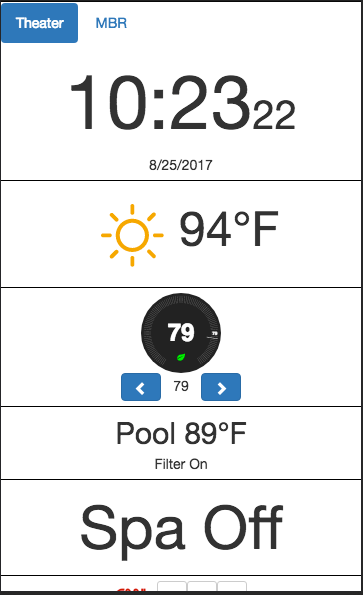
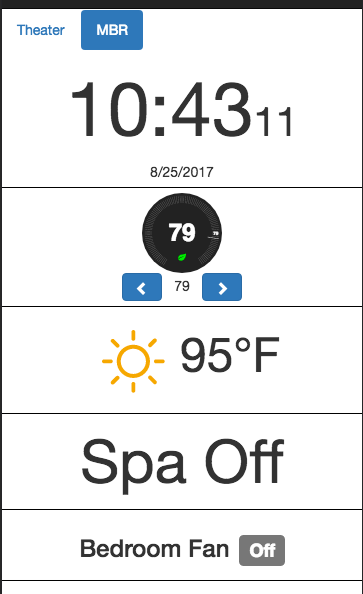
more README

diff --git a/README.md b/README.md
@@ -42,6 +42,15 @@ you care about at a glance.
 
 ![Dashboard iPad](https://raw.githubusercontent.com/RoboDomo/RoboDomo/master/screenshots/Dashboard-iPad.png)
 
+You might have a phone on your nightstand or on the wall in the bedroom.  The dashboard
+for its screen would have different tiles with information/controls more suited
+to the bedroom location.
+
+![Dashboard iPad](https://raw.githubusercontent.com/RoboDomo/RoboDomo/master/screenshots/Dashboard-Phon.png)
+
+More screenshots here:
+https://github.com/RoboDomo/RoboDomo/tree/master/screenshots
+
 ## AutoDomo in action (use cases)
 
 I live in the desert and have a swimming pool.  
